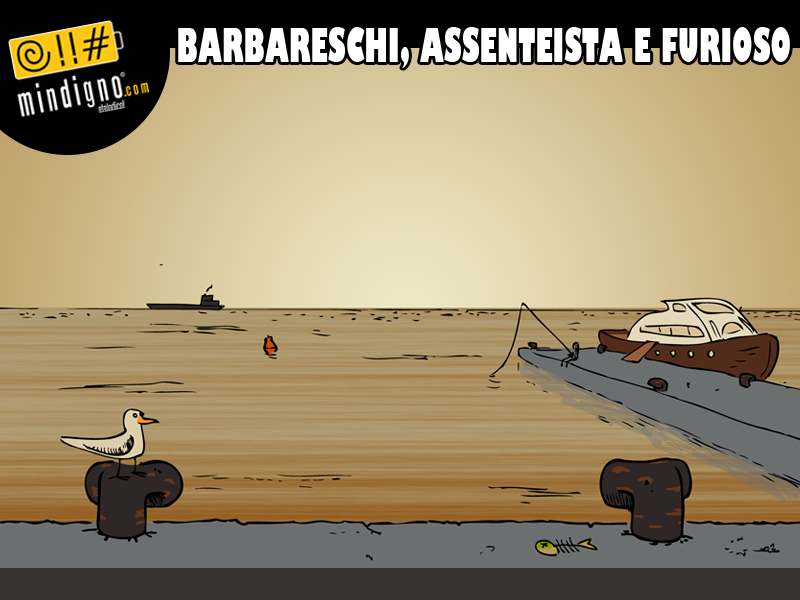
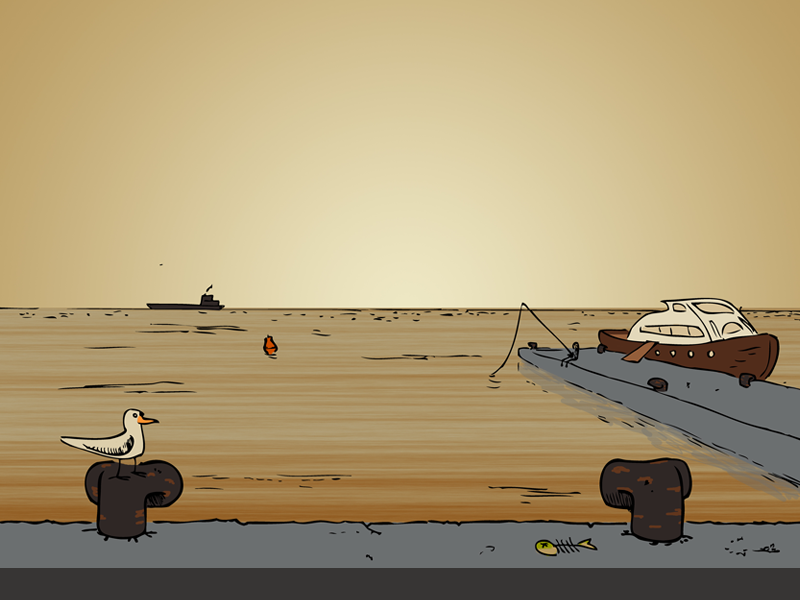
Menu.

Changed region(s): [[0.0, 0.0, 1.0, 0.27]]

diff --git a/index.html b/index.html
@@ -1,60 +1,50 @@
 <!DOCTYPE html>
 <html>
-    <head>
-        <title>My First Canvace Game</title>
-        <script type="text/javascript" src="Libraries/jquery-1.7.2.min.js"></script>
-        <script type="text/javascript" src="Libraries/canvace.js"></script>
-        <style type="text/css">
-        html, body {
-            width: 100%;
-            height: 100%;
-        }
+	<head>
+		<title>My First Canvace Game</title>
+		<script type="text/javascript" src="Libraries/jquery-1.7.2.min.js"></script>
+		<script type="text/javascript" src="Libraries/canvace.js"></script>
+		<style type="text/css">
+		html,body {
+			width: 100%;
+			height: 100%;
+		}
+		</style>
+	</head>
+	<body style="margin:0px;padding:0px;text-align:center;overflow:hidden">
+		<p></p>
 
-        html {
-            display: table;
-        }
+		<div id="container" style="display:inline-block;width:804px;height:604px;position:relative;left:0px;top:0px;overflow:hidden">
+			<canvas id="canvas" width="800" height="600" style="border:2px solid black;background:url('Background.png')"></canvas>
+			<div id="ringraziamenti" style="position:absolute;width:100%;left:0px;top:100%">Sviluppato da Mindigno</div>
+			<div id="menu" style="position:absolute;left:0px;top:0px;width:100%;height:100%;background:url('Menu/Layer.png')">
+				<div style="position:relative;left:0px;top:33%;text-align:center">
+					<img src="Menu/Batteria.png" alt="Caricamento..."/>
+				</div>
+				<div style="position:absolute;width:100%;left:-50px;bottom:0px;margin:50px;text-align:center">
+					<table style="width:100%">
+						<tr>
+							<td>
+								<p>colpisci</p>
+								<img src="Menu/Spazio.png" alt="barra spaziatrice"/>
+							</td>
+							<td>
+								<p>spostati</p>
+								<img src="Menu/Frecce.png" alt="tasti freccia"/>
+							</td>
+						</tr>
+					</table>
+				</div>
+			</div>
+			<div style="position:absolute;left:0px;top:0px">
+				<img src="Header.png" alt="mindigno.com"/>
+			</div>
+		</div>
 
-        body {
-            display: table-cell;
-            vertical-align: middle;
-            text-align: center;
-        }
-
-        #container {
-            display: inline-block;
-            position: relative;
-            overflow: hidden;
-        }
-
-        #container > * {
-            display: block;
-            margin: auto;
-        }
-
-        #container > canvas {
-            border: 2px solid black;
-            background: url('Background.png');
-        }
-
-        #container > div {
-            position: absolute;
-            width: 100%;
-            left: 0px;
-            top: 100%;
-        }
-        </style>
-    </head>
-    <body>
-
-        <div id="container">
-            <canvas id="canvas" width="800" height="600"></canvas>
-            <div id="ringraziamenti">Sviluppato da Mindigno</div>
-        </div>
-
-        <script type="text/javascript" src="Source/Nuvola.js"></script>
-        <script type="text/javascript" src="Source/Iena.js"></script>
-        <script type="text/javascript" src="Source/Cameraman.js"></script>
-        <script type="text/javascript" src="Source/Personaggio.js"></script>
-        <script type="text/javascript" src="Source/Game.js"></script>
-    </body>
+		<script type="text/javascript" src="Source/Nuvola.js"></script>
+		<script type="text/javascript" src="Source/Iena.js"></script>
+		<script type="text/javascript" src="Source/Cameraman.js"></script>
+		<script type="text/javascript" src="Source/Personaggio.js"></script>
+		<script type="text/javascript" src="Source/Game.js"></script>
+	</body>
 </html>
